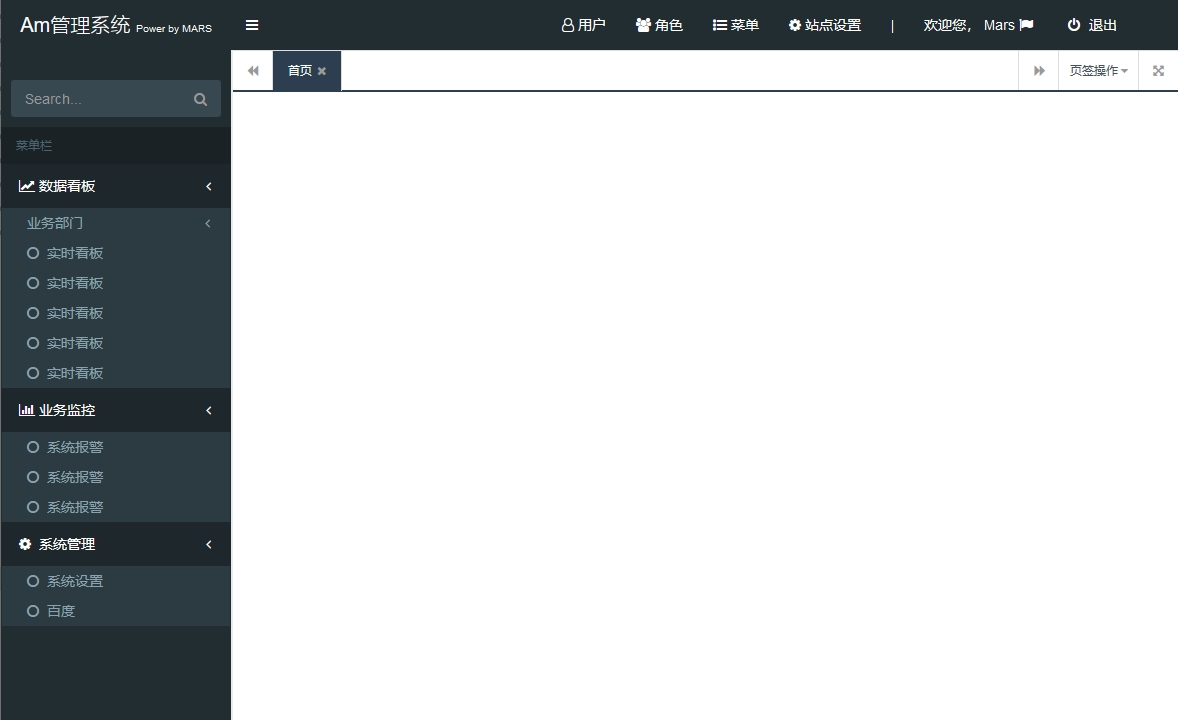
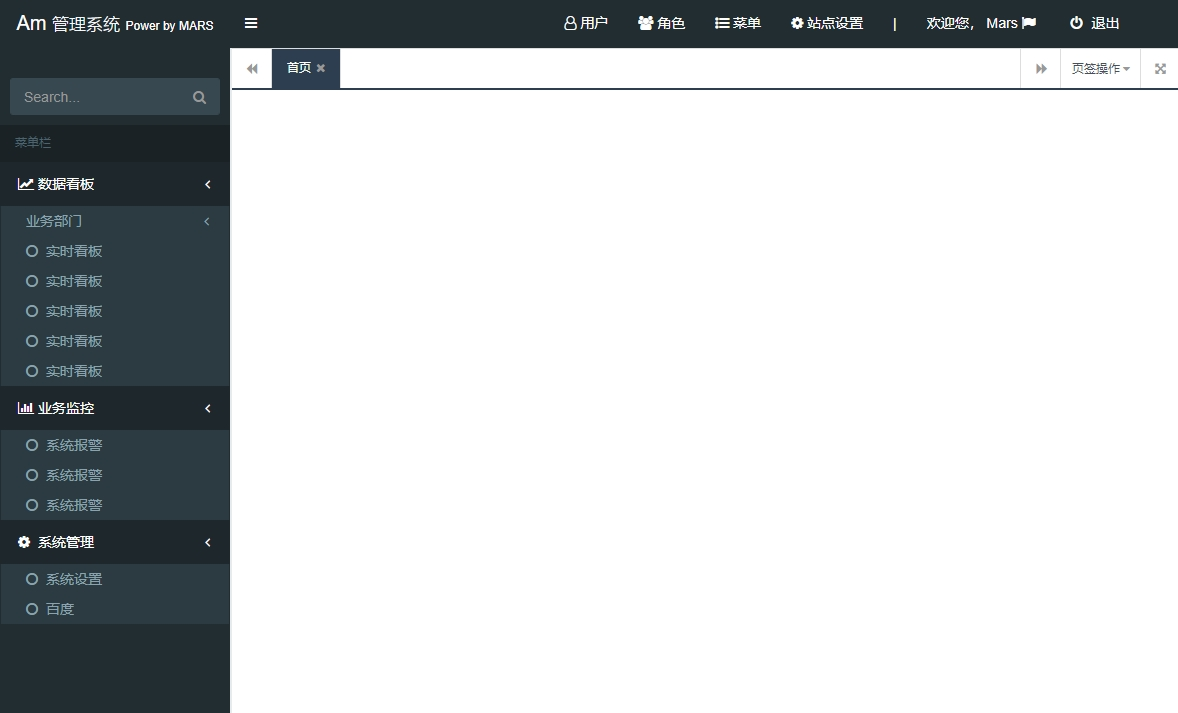
修改左上角系统名字字体大小

diff --git a/index.html b/index.html
@@ -107,7 +107,7 @@
             <span class="logo-mini">Am<!--<img src="#" />--></span>
             <!-- logo for regular state and mobile devices -->
             <span class="logo-lg">
-                Am管理系统 <span style="font-size: x-small;">Power by MARS</span>
+                Am <small>管理系统</small> <span style="font-size: x-small;">Power by MARS</span>
                 <!--<img src="#" />-->
             </span>
         </a>

diff --git a/asset/a.html b/asset/a.html
@@ -1,0 +1,1 @@
+iframe 页面
